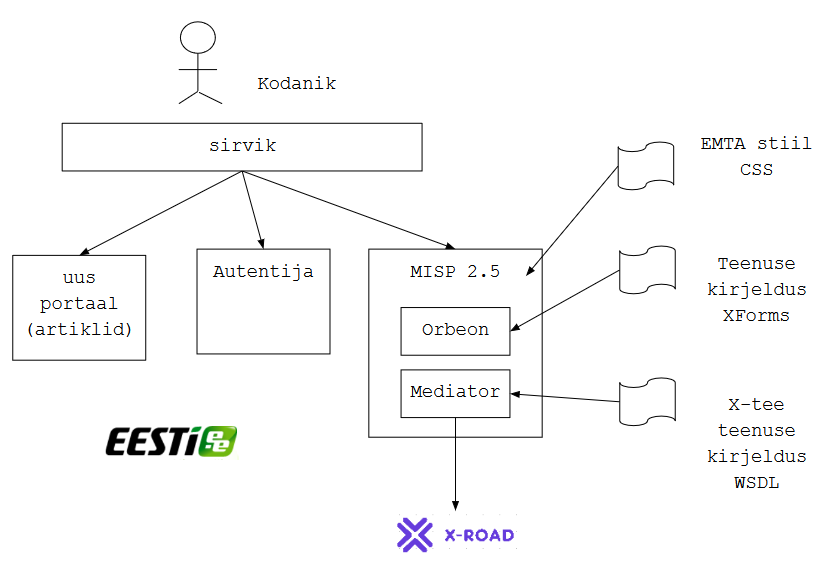
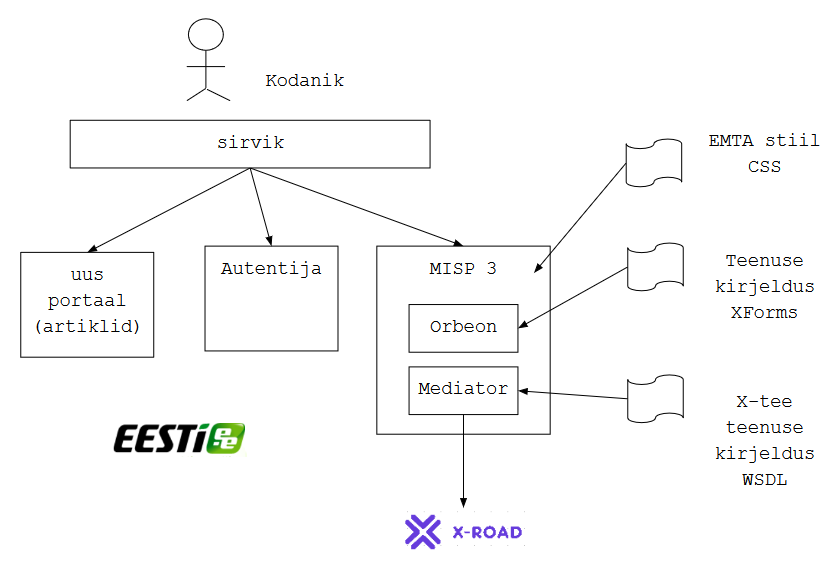
+

diff --git a/_layouts/Times.html b/_layouts/Times.html
@@ -15,13 +15,11 @@
 </head>
 
 <body>
-  {% include Pais.html %}
   
   <div id='Tekst'>      
     {{ content }}
   </div>
   
-  {% include Jalus.html %}
 </body>
 
 </html>

diff --git a/Tood.md b/Tood.md
@@ -2,22 +2,16 @@
 permalink: Tood
 ---
 
-<img src='img/ARHI-01.PNG' width='600'>
+## MISP 3 Proof of Concept. Tööde kirjeldus
 
-Joonis 1. 
-
-## MISP 3 Proof of Concept
-
-tööde kirjeldus
-
-v 0.1, 14.03.2018
+14.03.2018
 
 ### Eesmärk
 
-Tööde eesmärk on luua tehniline lahendus, koodnimetusega MISP 3, mis põhineb:
+Luua tehniline lahendus, koodnimetusega MISP 3, mis põhineb:
 - MISP2 täiendatud [1] tarkvaral
 - eraldiseisval autentimisteenusel (Autentija)
-- responsive kujundusel, EMTA stiili alusel
+- _responsive_ kujundusel, EMTA stiili alusel
 - "vana" portaali XForms teenusekirjeldustel.
 
 Tehniline lahendus peab võimaldama olemasolevaid portaali teenuseid kasutada:
@@ -34,30 +28,34 @@ Tehniline lahendus peab teostama kasutusvoo:
 6. Kodanik kasutab vormi (teeb toimingu)
 7. MISP 3 salvestab kasutaja toimingu tulemuse vajalikku andmekogusse.
 
+<img src='img/ARHI-01.PNG' width='600'>
+
+Joonis 1. 
+
 ### Tehnilised nõuded
 
 1. Autentimine tehakse eraldi paigaldatud mooduliga (Autentija). Autentimise tulemuseks on JWT-vormingus seansitõend. Seansitõendit hoitakse sirvikus, küpsises. Rakendus peab kontrollima seansitõendi kehtivust. Autentijas hoitakse nimekirja tühistatud seansitõenditest. Autentija kood ja dokumentatsioon [2] on olemas.
 2. Peab arvestama perspektiiviga autentimisel kasutada [TARA teenust](https://e-gov.github.io/TARA-Doku/).
-3. Kasutajaliideses kasutada kujundusraamistikku Bootstrap ja EMTA stiililaade.
-4. Vormimootorina kasutada Orbeon XForms.
+3. Kasutajaliideses kasutada kujundusraamistikku Bootstrap ja EMTA stiililaade [3].
+4. Vormimootorina kasutada MISP 2 olemasolevat Orbeoni.
 5. X-teega suhtlus teostada eraldi komponendiga, võttes aluseks MISP 2 vastava komponendi (joonisel nimetatud Mediatoriks).
-6. MISP 2.0 koodist eemaldada mittevajalik osa (pääsuhaldus, mis ei ole vajalik kodanikuteenustes)
-7. MISP 2.5 paigaldatakse uuest portaalist ja Autentijast eraldi (kuid kasutab sama domeeni).
-8. Portaali peab olema võimalik paigaldada mitu MISP 2.5.
+6. MISP 2 koodist eemaldada mittevajalik osa (pääsuhaldus, mis ei ole vajalik kodanikuteenustes, menüüd ja teenuste nimekirjad, mis ei haaku uue portaali infoarhitektuuriga).
+7. MISP 3 paigaldatakse uuest portaalist ja Autentijast eraldi (kuid kasutab sama domeeni).
+8. MISP 3 peab olema portaali paigaldatav mitmes instantsis (iga instants teostab erinevaid teenuseid).
 
 ### Proof of concept
 
-Tehniline lahendus koostada _proof of concept_ (POC) ulatuses.
+Tehniline lahendus koostada _proof of concept_ (POC) ulatuses. See tähendab, et dokumentatsioon, kujundus jm ei pea olema viimistletud, kuid lahendus peab töötama määral, mis võimaldab veenduda lahenduse ärilises sobivuses ja tehnilises teostatavuses.
 
 ### Tööde koosseis
 
 | nr | töö | selgitus |
 |:-----:|-----|---------|
-|  1  | Autentimise eraldamine | Eraldada autentimine eraldi moodulisse.<br> Autentimismoodul peab võimaldama kasutada nii staatilist portaali kui ka MISP-teenuseid kasutaja ühekordse autentimisega.<br> Võimalusel kasutada JWT kontseptsiooni [aut] ja selle alusel tehtud arendust. |
-|  2  | UI uuendamine | Vahetada MISP-i kujundus välja Bootstrap-põhise, responsive võimalustega kujundusega.<br> Aluseks on tellija antud stiiliraamat koos kujunduselementidega.<br> _Proof-of-concept_ lahenduses ei pea UI olema viimistletud; piisab uue kujunduse teostatavuse demonstreerimisest. |
-|  3  | MISP-i sidumine staatilise portaaliga | 1) Projekteerida mehhanism. millega e-teenus valitakse staatilises portaalis ja valitud teenus antakse kasutaja liikumisel MISP-i ette parameetrina. Portaali koosseisus võib olla rohkem kui üks MISP.<br> 2) Uurida ja katsetada mehhanismi MISP-i kasutajaliidese kasutajale märkamatuks lõimimiseks staatilise portaaliga (iFrame). Kui see osutub probleemseks, siis teostada e-teenuse avamine kas lehevahetusega või eraldi sakil.<br> 3) Kasutajaliidesest eemaldada menüüd, e-teenuste nimekirja kuvamine ja e-teenuse valimine. |
-|  4  | Kasutajagruppide loogika lihtsustamine | Eemaldada pääsuõigustega seotud funktsionaalsus, mis ei ole vajalik kodanikuteenuste osutamiseks. |
-|  5  | Teenuste ülekandmine | Teostada kahe portaalis oleva kodanikuteenuse üleviimine MISP-lahendusse. |
+|  1  | Autentimise eraldamine | Eraldada autentimine eraldi moodulisse.<br> Autentimismoodul peab võimaldama kasutada nii staatilist portaali kui ka MISP-teenuseid kasutaja ühekordse autentimisega. |
+|  2  | UI uuendamine | Vahetada MISP-i kujundus välja Bootstrap-põhise, _responsive_ võimalustega kujundusega.<br> Aluseks on tellija antud stiiliraamat koos kujunduselementidega. |
+|  3  | MISP-i sidumine staatilise portaaliga |  |
+|  4  | Mittevajaliku pääsuhalduse eemaldamine | Eemaldada kodanikuteenuste osutamiseks mittevajalik funktsionaalsus. |
+|  5  | Teenuste ülekandmine | Viia vähemalt kaks vanas portaalis olevat kodanikuteenust üle uude lahendusse. |
 
 ### Üleantavad tulemid
 
@@ -71,4 +69,5 @@ Tehniline lahendus koostada _proof of concept_ (POC) ulatuses.
 #### Viited
 
 [1] Aktors OÜ (2015) MISP2 arhitektuur v 1.10.<br>
-[2] Riigi Infosüsteemi Amet (2017) eesti.ee autentimislahenduse tehniline lähteülesanne.
+[2] Riigi Infosüsteemi Amet (2017) eesti.ee autentimislahenduse tehniline lähteülesanne.<br>
+[3] EMTA (2018) Kujunduslahendus.
